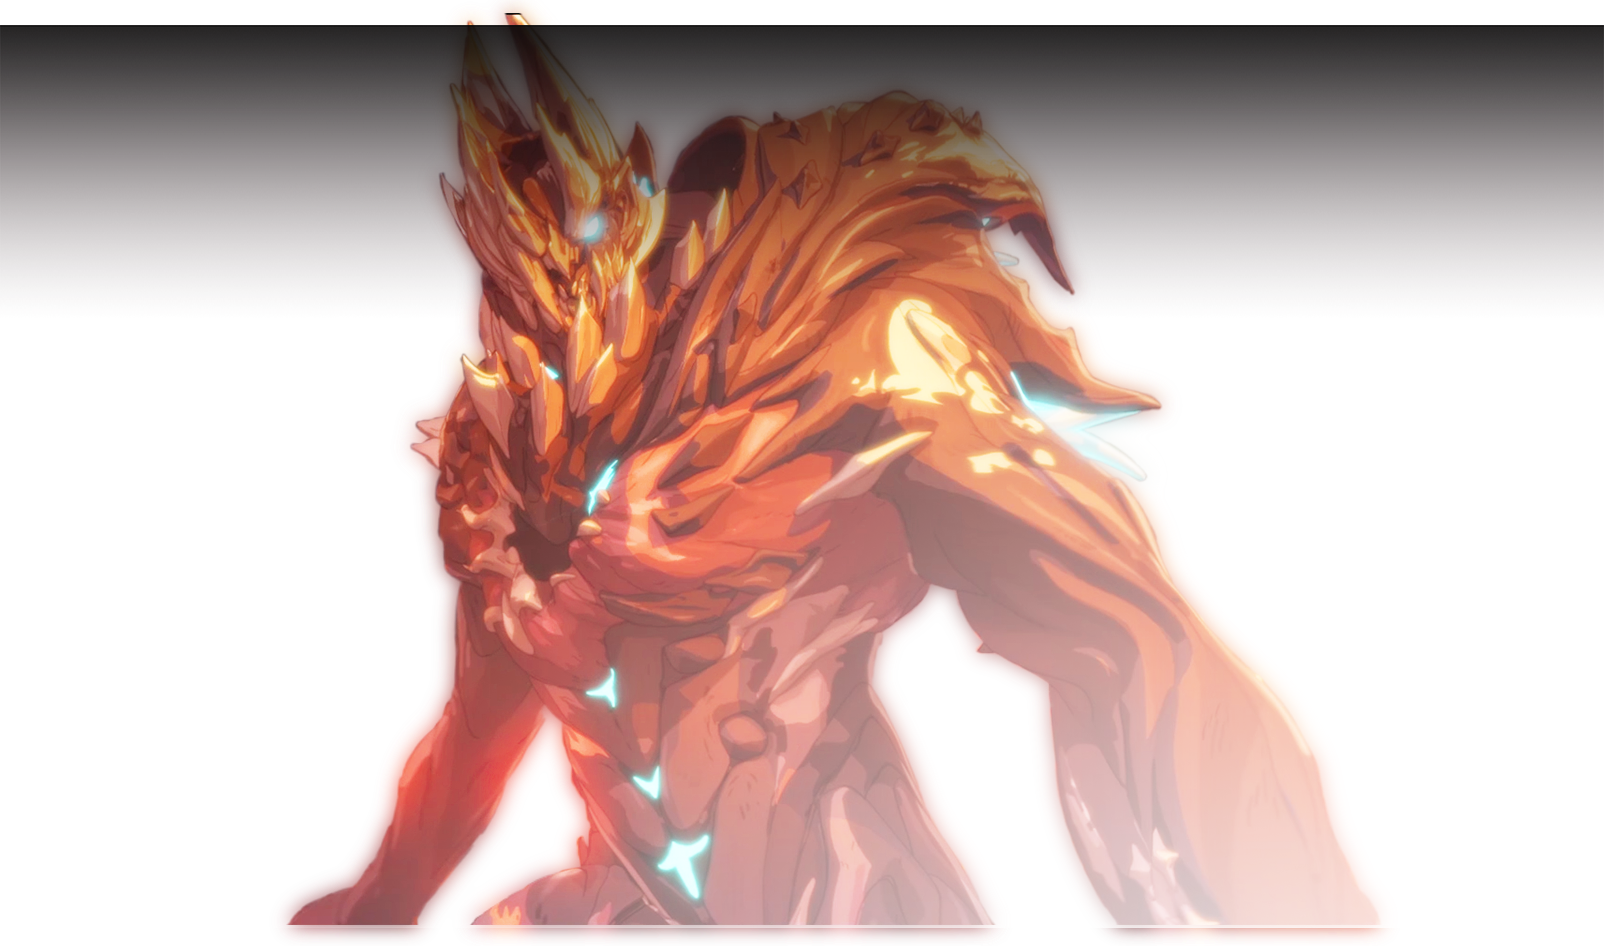
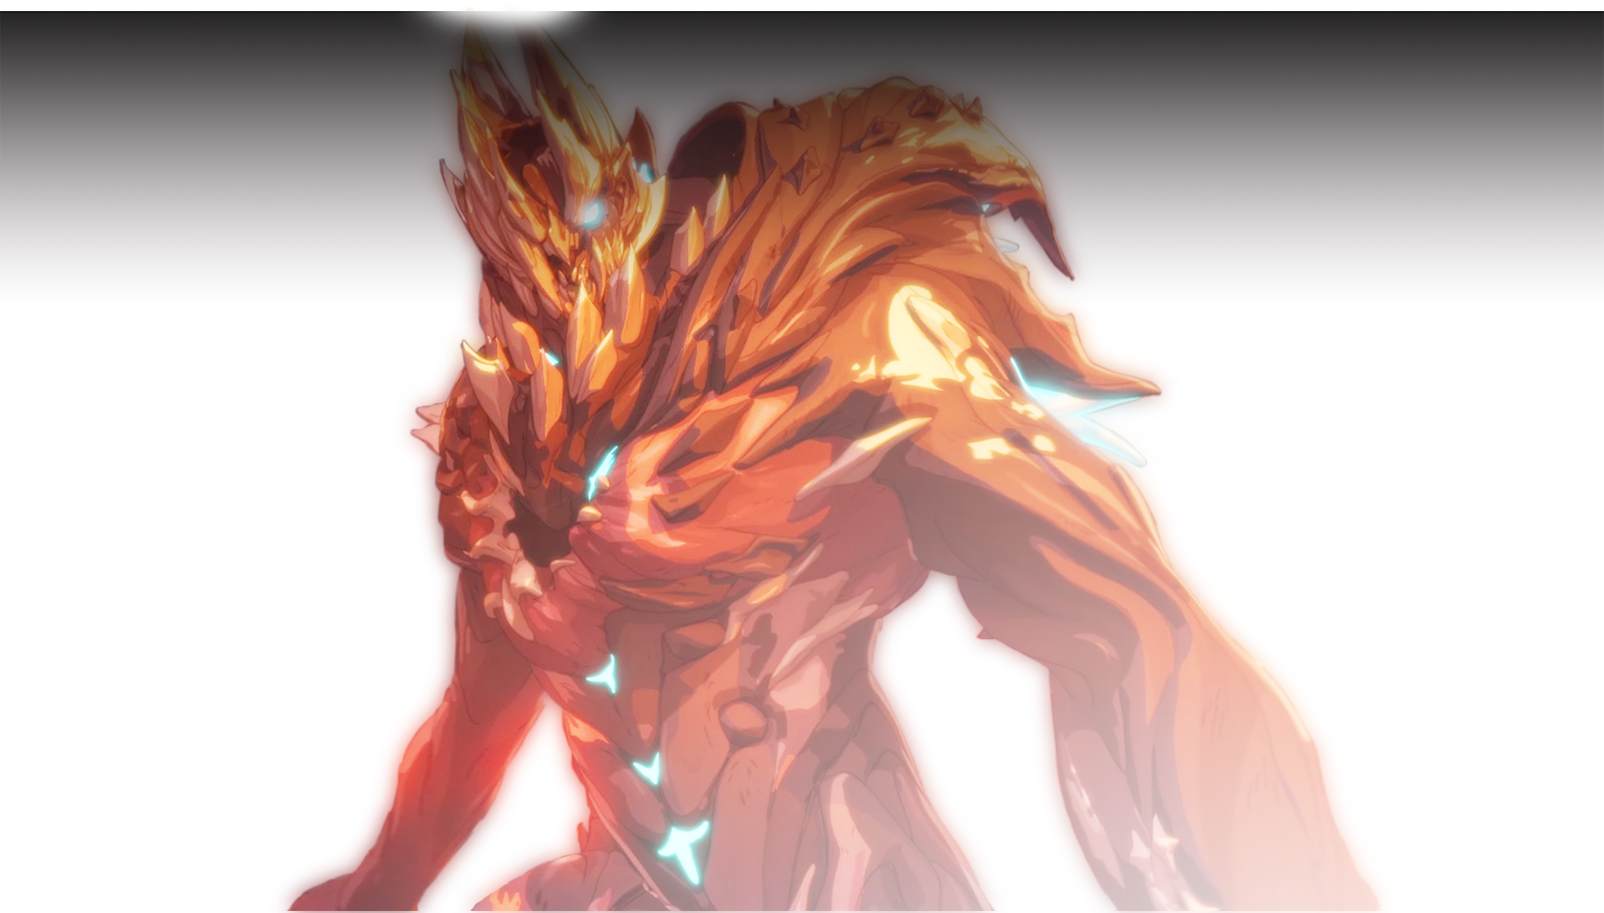
add pics

diff --git a/public/assets/css/index.css b/public/assets/css/index.css
@@ -1,0 +1,48 @@
+*:not(.fa) {
+  font-family: xingothic-tc;
+  -webkit-font-smoothing: antialiased;
+  box-sizing: border-box;
+}
+
+html, body {
+  width: 100%;
+  height: 100%;
+  line-height: 1.7;
+  padding: 0;
+  margin: 0;
+}
+
+a {
+  display: inline-block;
+  text-decoration: none;
+  color: #fff;
+}
+
+h1, h2, h3, h4 {
+  margin: 0;
+}
+
+.bg {
+  height: 100%;
+  width: 100%;
+  background: #000;
+  background-repeat: no-repeat;
+  background-image: url("/assets/img/main/bg.png");
+  -webkit-background-size: cover;
+  -o-background-size: cover;
+  background-size: cover;
+  background-position: 50% 50%;
+}
+
+.character {
+  position: relative;
+  height: 100%;
+  margin: auto;
+  display: flex;
+  -webkit-justify-content: center;
+  justify-content: center;
+}
+
+.character img {
+  height: 100%;
+}

diff --git a/public/assets/scss/index.scss b/public/assets/scss/index.scss
@@ -20,6 +20,29 @@ a {
 h1,h2,h3,h4 {
   margin: 0;
 }
+.bg {
+  height: 100%;
+  width: 100%;
+  background: #000;
+  background-repeat: no-repeat;
+  background-image: url("/assets/img/main/bg.png");
+  -webkit-background-size: cover;
+  -o-background-size: cover;
+  background-size: cover;
+  background-position: 50% 50%;
+}
+
+.character {
+  position: relative;
+  height: 100%;
+  margin: auto;
+  display: flex;
+  -webkit-justify-content: center;
+  justify-content: center;
+  img {
+    height: 100%;
+  }
+}
 
 @media screen and (max-width:768px){
 

diff --git a/public/index.html b/public/index.html
@@ -18,7 +18,9 @@
 </head>
 <body>
 <div class="bg">
-  
+  <div class="character">
+    <img src="/assets/img/main/gradient.png" alt="">
+  </div>
 </div>
 </body>
 <script src="/assets/js/jquery-2.1.4.min.js"></script>
